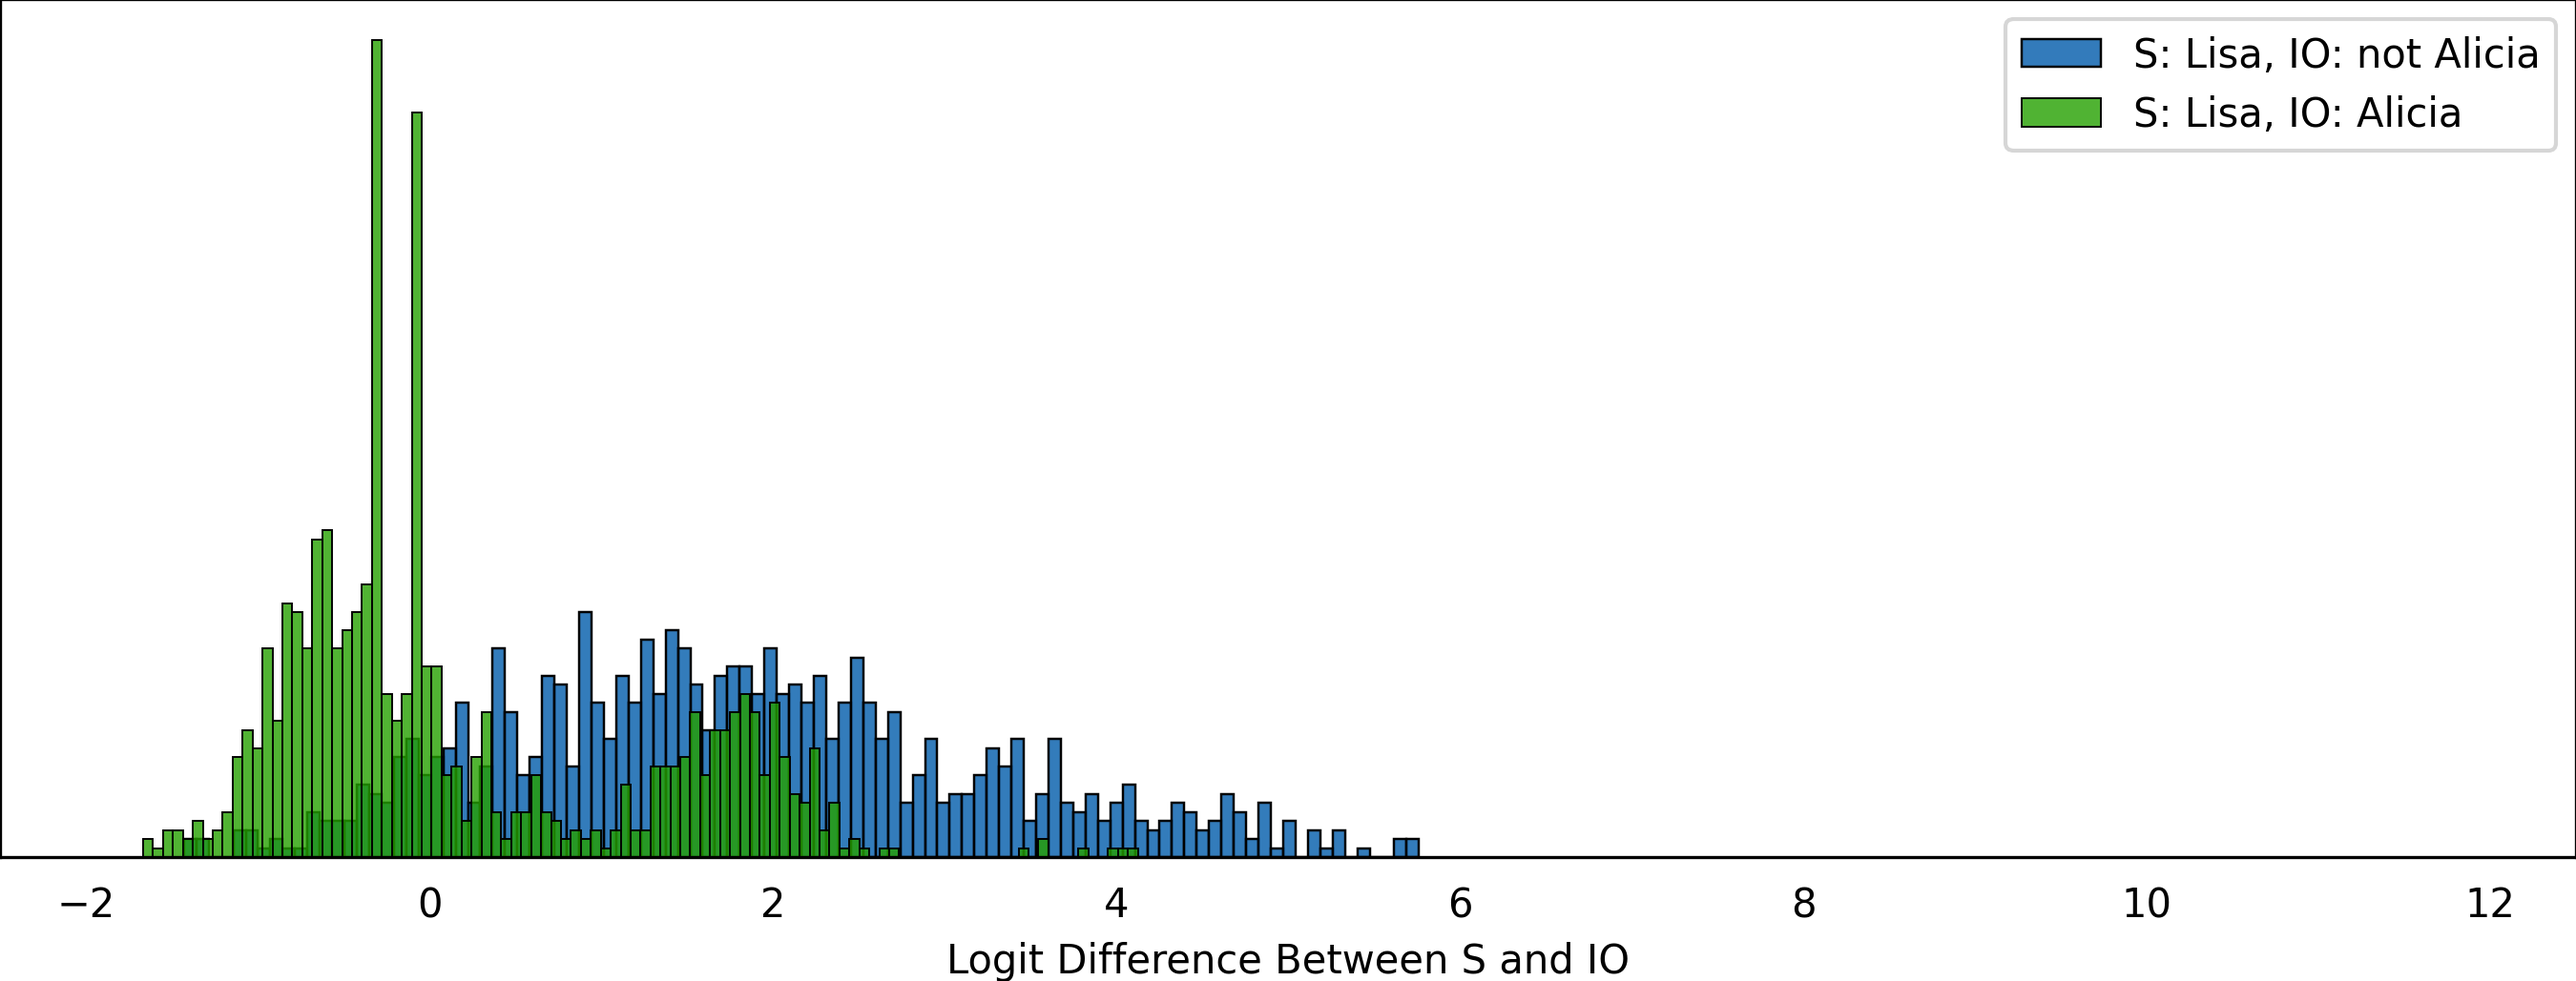
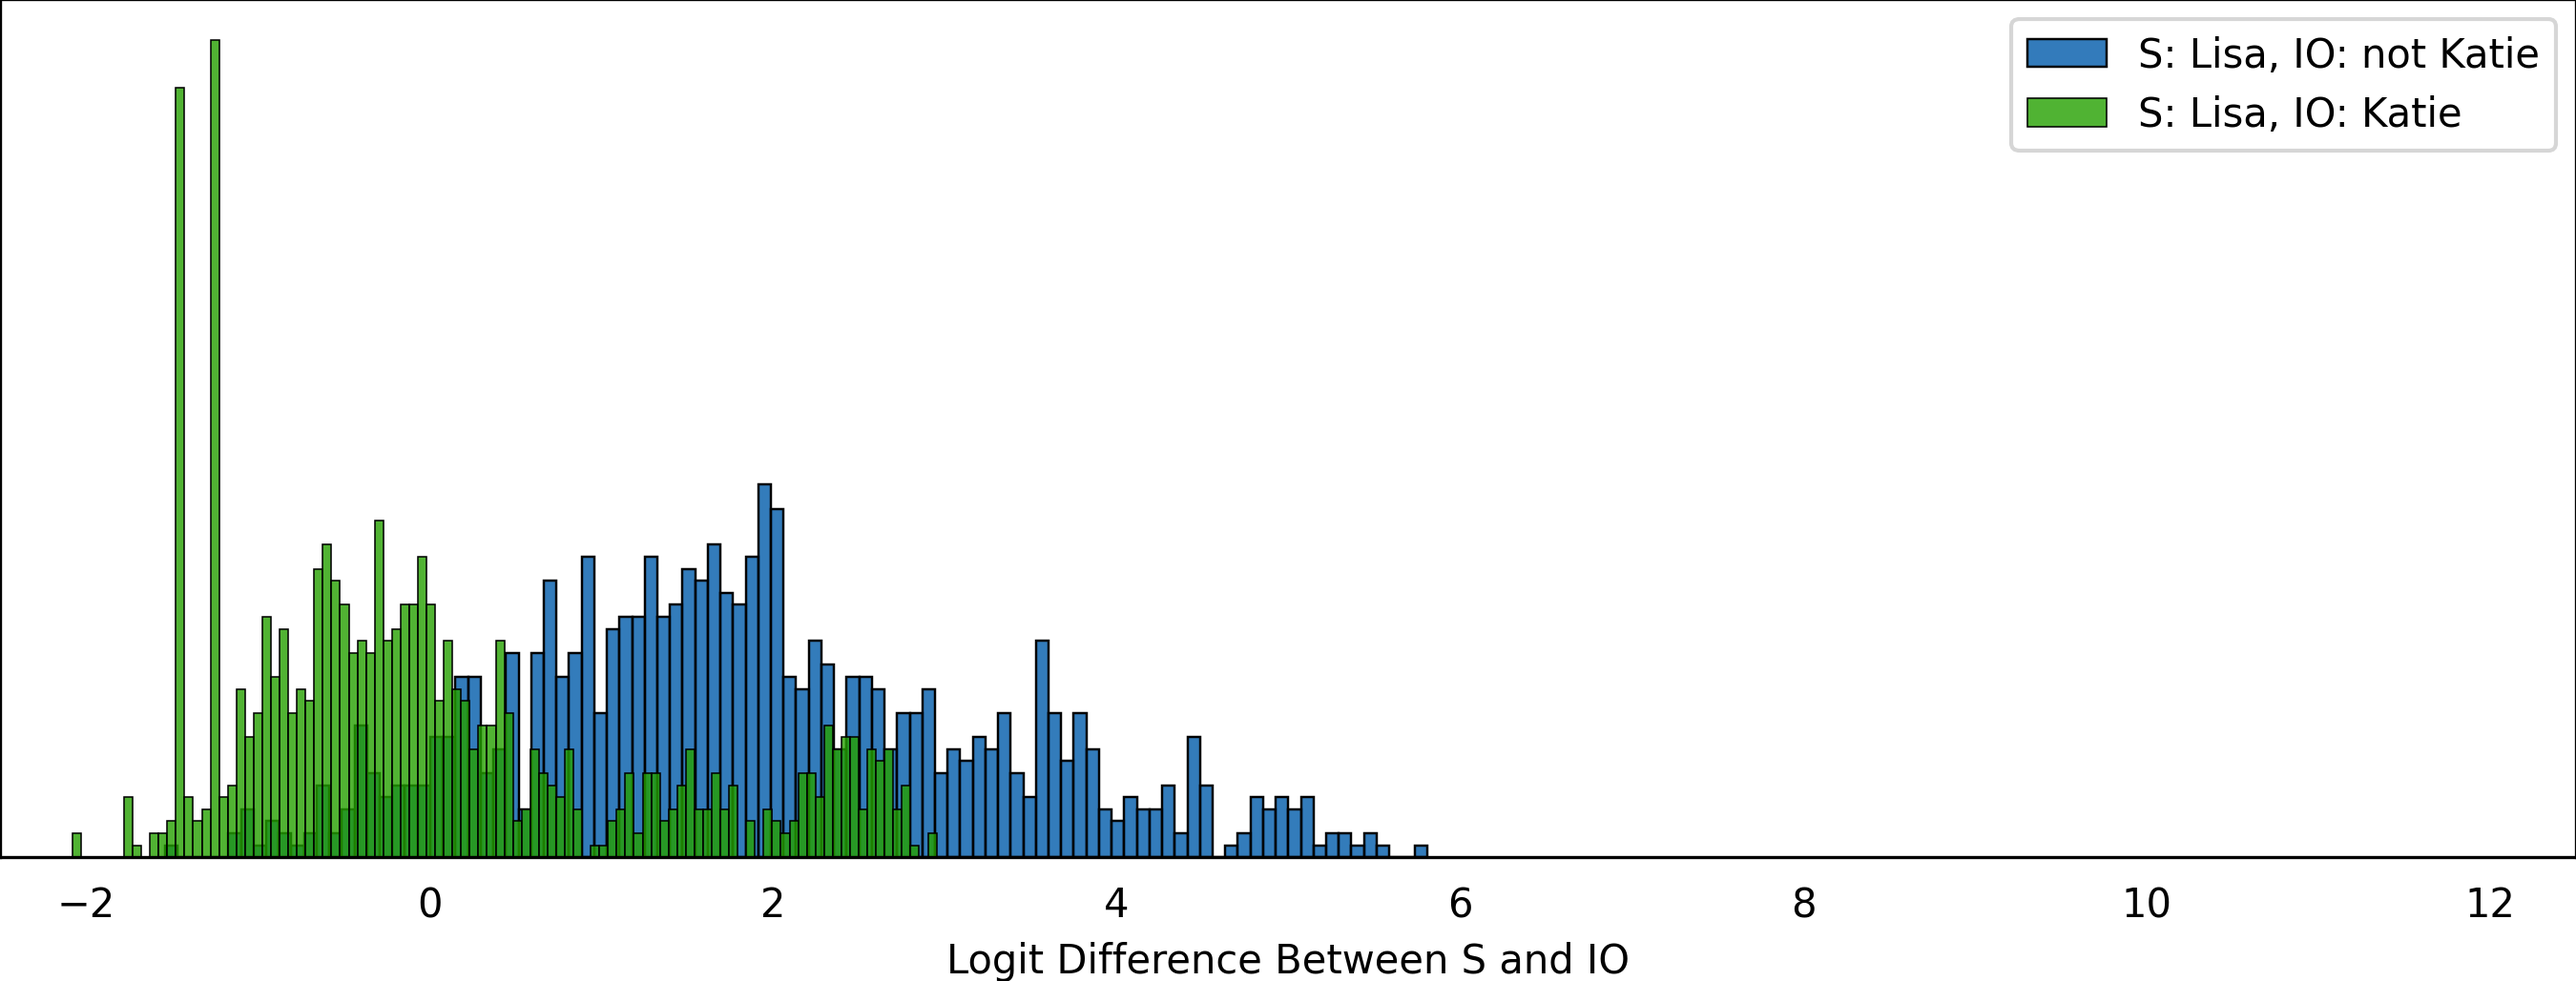
alicia<>katie fix ioi tails

Changed region(s): [[0.0311, 0.0311, 0.56, 0.8707], [0.7778, 0.0311, 0.9956, 0.1555]]

diff --git a/_posts/2024-08-14-ioi-tails.md b/_posts/2024-08-14-ioi-tails.md
@@ -40,10 +40,10 @@ etc., and then sort by the mean difference between these groups to get an idea.
 
 If we restrict our data to this subset and do this procedure again,
 
-![Logit Differences, GPT-2 Small, Subject: Lisa, IO: Alicia](/assets/blogfigs/ioi/small_s_io.png){:.centered}
+![Logit Differences, GPT-2 Small, Subject: Lisa, IO: Katie](/assets/blogfigs/ioi/small_s_io.png){:.centered}
 
 we can find out that in a large portion of cases where the subject is Lisa
-and the indirect object is Alicia, GPT-2 Small fails to perform the IOI task
+and the indirect object is Katie, GPT-2 Small fails to perform the IOI task
 correctly. In fact there appear to be a number of other Indirect Object names that consistently
 perform poorly when the Subject is Lisa:
 
@@ -77,7 +77,7 @@ sense and _look at the full distribution_.
 I'm becoming more interested
 generally in bounding worst-case behaviors as a safety angle:
 this is one toy setup where the worst-case is not being handled correctly.
-If your name is Lisa or Alicia you may feel this more concretely,
+If your name is Lisa or Katie you may feel this more concretely,
 let alone if your name is uncommon, non-Western, or multi-token.
 As we worry more and more about extreme tail-risk failure modes,
 it's a good idea to keep things like this in mind, and perhaps
